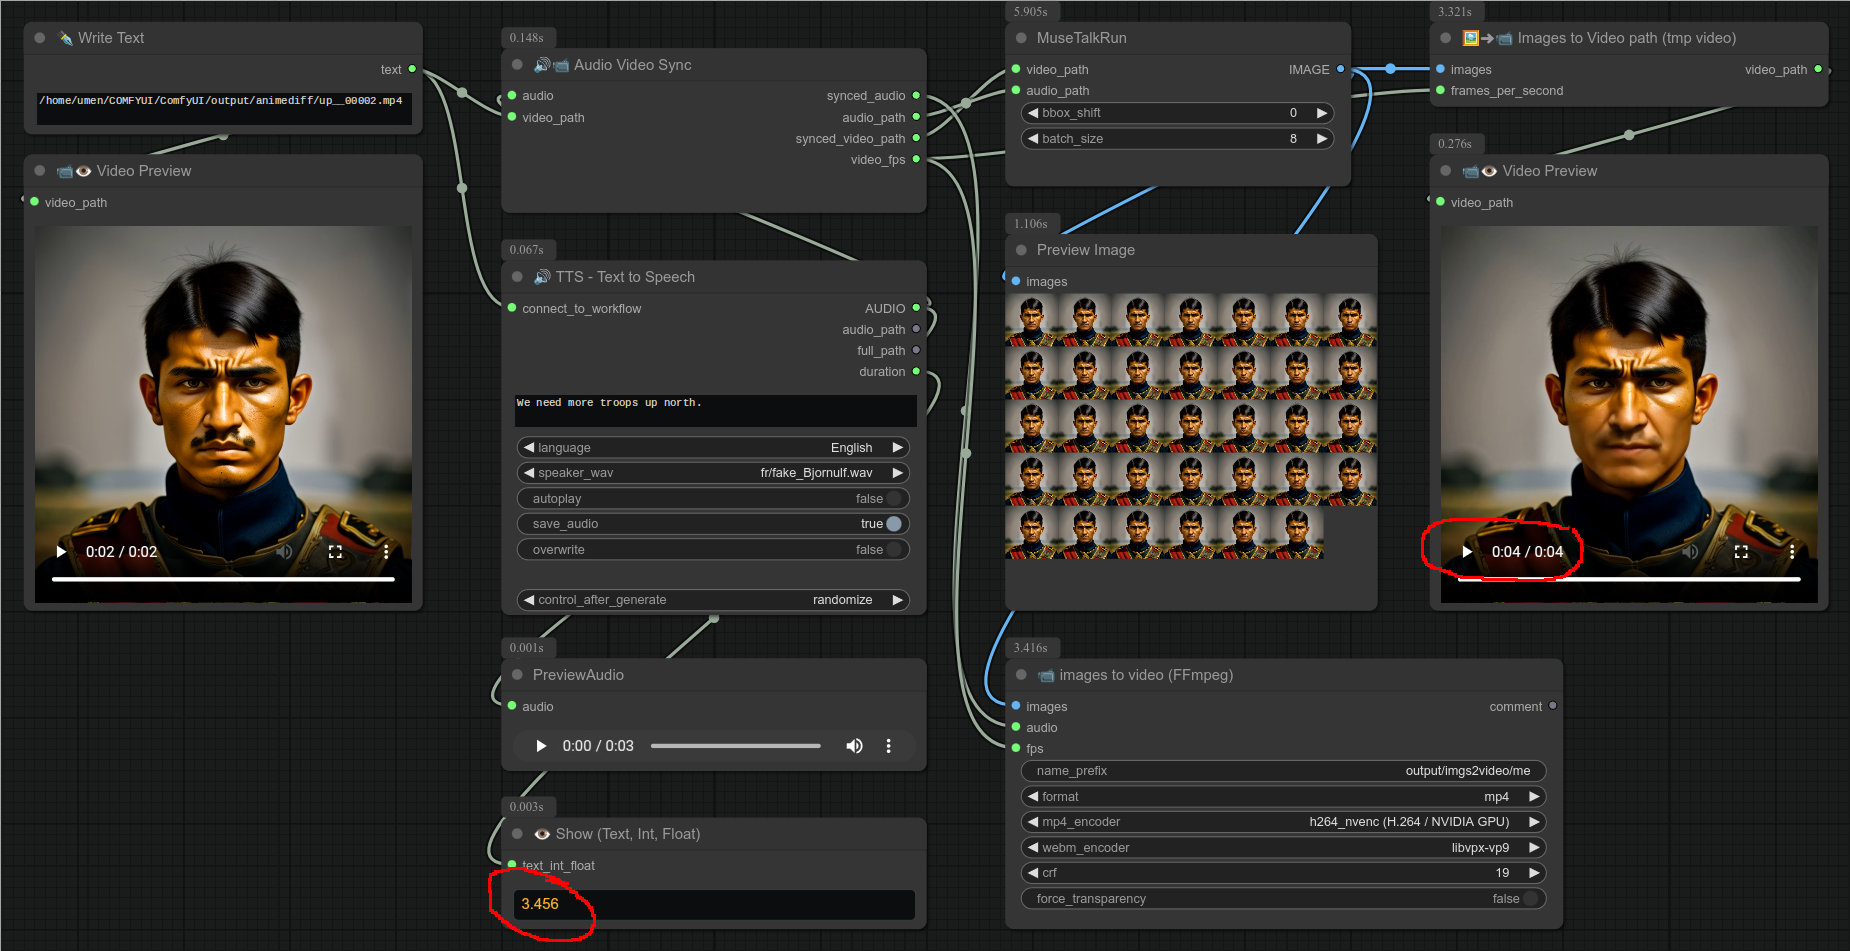
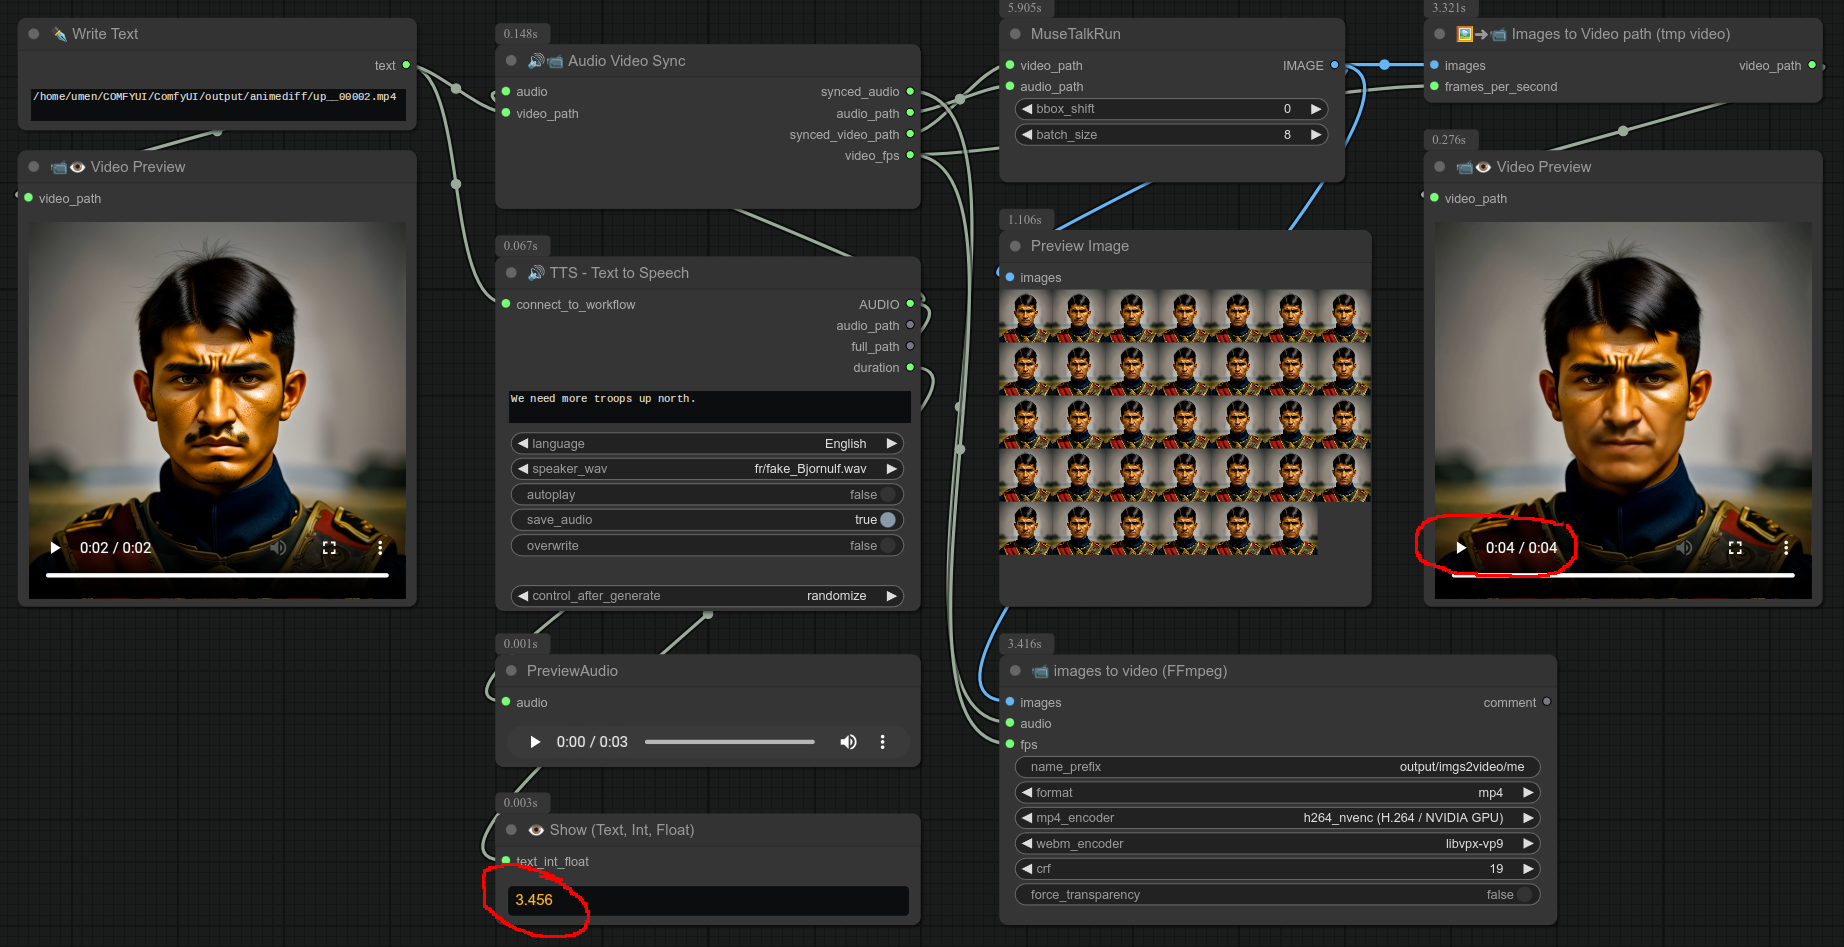
0.47

diff --git a/web/js/loop_model_selector.js b/web/js/loop_model_selector.js
@@ -1,0 +1,98 @@
+import { app } from "../../../scripts/app.js";
+
+app.registerExtension({
+    name: "Bjornulf.LoopModelSelector",
+    async nodeCreated(node) {
+        if (node.comfyClass === "Bjornulf_LoopModelSelector") {
+            const updateModelInputs = () => {
+                const numModelsWidget = node.widgets.find(w => w.name === "number_of_models");
+                if (!numModelsWidget) return;
+
+                const numModels = numModelsWidget.value;
+                const checkpointsList = node.widgets.find(w => w.name === "model_1").options.values;
+                
+                // Remove excess model widgets
+                node.widgets = node.widgets.filter(w => !w.name.startsWith("model_") || parseInt(w.name.split("_")[1]) <= numModels);
+                
+                // Add new model widgets if needed
+                for (let i = 1; i <= numModels; i++) {
+                    const widgetName = `model_${i}`;
+                    if (!node.widgets.find(w => w.name === widgetName)) {
+                        const defaultIndex = Math.min(i - 1, checkpointsList.length - 1);
+                        node.addWidget("combo", widgetName, checkpointsList[defaultIndex], () => {}, { 
+                            values: checkpointsList
+                        });
+                    }
+                }
+                
+                // Reorder widgets
+                node.widgets.sort((a, b) => {
+                    if (a.name === "number_of_models") return -1;
+                    if (b.name === "number_of_models") return 1;
+                    if (a.name === "seed") return 1;
+                    if (b.name === "seed") return -1;
+                    if (a.name.startsWith("model_") && b.name.startsWith("model_")) {
+                        return parseInt(a.name.split("_")[1]) - parseInt(b.name.split("_")[1]);
+                    }
+                    return a.name.localeCompare(b.name);
+                });
+                
+                node.setSize(node.computeSize());
+            };
+
+            // Set up number_of_models widget
+            const numModelsWidget = node.widgets.find(w => w.name === "number_of_models");
+            if (numModelsWidget) {
+                numModelsWidget.callback = () => {
+                    updateModelInputs();
+                    app.graph.setDirtyCanvas(true);
+                };
+            }
+
+            // Set seed widget to integer input
+            const seedWidget = node.widgets.find((w) => w.name === "seed");
+            if (seedWidget) {
+                seedWidget.type = "HIDDEN"; // Hide seed widget after restoring saved state
+            }
+
+            // Handle deserialization
+            const originalOnConfigure = node.onConfigure;
+            node.onConfigure = function(info) {
+                if (originalOnConfigure) {
+                    originalOnConfigure.call(this, info);
+                }
+                
+                // Restore model widgets based on saved properties
+                const savedProperties = info.properties;
+                if (savedProperties) {
+                    Object.keys(savedProperties).forEach(key => {
+                        if (key.startsWith("model_")) {
+                            const widgetName = key;
+                            const widgetValue = savedProperties[key];
+                            const existingWidget = node.widgets.find(w => w.name === widgetName);
+                            if (existingWidget) {
+                                existingWidget.value = widgetValue;
+                            } else {
+                                node.addWidget("combo", widgetName, widgetValue, () => {}, { 
+                                    values: node.widgets.find(w => w.name === "model_1").options.values
+                                });
+                            }
+                        }
+                    });
+                }
+                
+                // Ensure seed is a valid integer
+                const seedWidget = node.widgets.find(w => w.name === "seed");
+                if (seedWidget && isNaN(parseInt(seedWidget.value))) {
+                    seedWidget.value = 0; // Set a default value if invalid
+                }
+                
+                // Update model inputs after restoring saved state
+                updateModelInputs();
+            };
+
+            // Initial update
+            updateModelInputs();
+        }
+    }
+});

diff --git a/loop_model_selector.py b/loop_model_selector.py
@@ -1,0 +1,67 @@
+import os
+from folder_paths import get_filename_list, get_full_path
+import comfy.sd
+
+class LoopModelSelector:
+    @classmethod
+    def INPUT_TYPES(cls):
+        model_list = get_filename_list("checkpoints")
+        optional_inputs = {}
+        
+        for i in range(1, 11):
+            optional_inputs[f"model_{i}"] = (model_list, {"default": model_list[min(i-1, len(model_list)-1)]})
+
+        return {
+            "required": {
+                "number_of_models": ("INT", {"default": 3, "min": 1, "max": 20, "step": 1}),
+            },
+            "optional": optional_inputs
+        }
+
+    RETURN_TYPES = ("MODEL", "CLIP", "VAE", "STRING", "STRING", "STRING")
+    RETURN_NAMES = ("model", "clip", "vae", "model_path", "model_name", "model_folder")
+    FUNCTION = "select_models"
+    CATEGORY = "Bjornulf"
+    OUTPUT_IS_LIST = (True, True, True, True, True, True)
+
+    def select_models(self, number_of_models, **kwargs):
+        # Collect available models from kwargs
+        available_models = [
+            kwargs[f"model_{i}"] for i in range(1, number_of_models + 1) if f"model_{i}" in kwargs and kwargs[f"model_{i}"]
+        ]
+        
+        # Raise an error if no models are available
+        if not available_models:
+            raise ValueError("No models selected")
+        
+        models = []
+        clips = []
+        vaes = []
+        model_paths = []
+        model_names = []
+        model_folders = []
+        
+        for selected_model in available_models:
+            # Get the model name (without folders or extensions)
+            model_name = os.path.splitext(os.path.basename(selected_model))[0]
+            
+            # Get the full path to the selected model
+            model_path = get_full_path("checkpoints", selected_model)
+            
+            # Get the folder name where the model is located
+            model_folder = os.path.basename(os.path.dirname(model_path))
+            
+            # Load the model using ComfyUI's checkpoint loader
+            loaded_objects = comfy.sd.load_checkpoint_guess_config(model_path)
+            
+            # Unpack only the values we need
+            model, clip, vae = loaded_objects[:3]
+            
+            models.append(model)
+            clips.append(clip)
+            vaes.append(vae)
+            model_paths.append(model_path)
+            model_names.append(model_name)
+            model_folders.append(model_folder)
+        
+        return (models, clips, vaes, model_paths, model_names, model_folders)

diff --git a/__init__.py b/__init__.py
@@ -55,9 +55,11 @@ from .audio_video_sync import AudioVideoSync
 from .video_path_to_images import VideoToImagesList
 from .images_to_video_path import ImagesListToVideo
 from .video_preview import VideoPreview
+from .loop_model_selector import LoopModelSelector
 
 NODE_CLASS_MAPPINGS = {
     "Bjornulf_ollamaLoader": ollamaLoader,
+    "Bjornulf_LoopModelSelector": LoopModelSelector,
     "Bjornulf_VideoPreview": VideoPreview,
     "Bjornulf_ImagesListToVideo": ImagesListToVideo,
     "Bjornulf_VideoToImagesList": VideoToImagesList,
@@ -114,6 +116,7 @@ NODE_CLASS_MAPPINGS = {
 
 NODE_DISPLAY_NAME_MAPPINGS = {
     "Bjornulf_WriteText": "✒ Write Text",
+    "Bjornulf_LoopModelSelector": "♻ Loop Load checkpoint (Model Selector)",
     "Bjornulf_VideoPreview": "📹👁 Video Preview",
     "Bjornulf_ImagesListToVideo": "🖼➜📹 Images to Video path (tmp video)",
     "Bjornulf_VideoToImagesList": "📹➜🖼 Video Path to Images",

diff --git a/README.md b/README.md
@@ -1,6 +1,6 @@
 # 🔗 Comfyui : Bjornulf_custom_nodes v0.46 🔗
 
-A list of 52 custom nodes for Comfyui : Display, manipulate, and edit text, images, videos, and more.  
+A list of 53 custom nodes for Comfyui : Display, manipulate, and edit text, images, videos, and more.  
 You can manage looping operations, generate randomized content, trigger logical conditions, pause and manually control your workflows and even work with external AI tools, like Ollama or Text To Speech.  
 
 # Coffee : ☕☕☕☕☕ 5/5
@@ -42,6 +42,7 @@ You can manage looping operations, generate randomized content, trigger logical 
 `38.` [♻🖼 Loop (Images)](#38----loop-images)  
 `39.` [♻ Loop (✒🗔 Advanced Write Text + 🅰 variables)](#39----loop--advanced-write-text)  
 `42.` [♻ Loop (Model+Clip+Vae) - aka Checkpoint / Model](#42----loop-modelclipvae---aka-checkpoint--model)  
+`53.` [♻ Loop Load checkpoint (Model Selector)](#53)  
 
 ## 🎲 Randomization 🎲
 `3.` [✒🗔 Advanced Write Text (+ 🎲 random selection and 🅰 variables)](#3----advanced-write-text---random-selection-and-🅰%EF%B8%8F-variables)  
@@ -234,6 +235,7 @@ cd /where/you/installed/ComfyUI && python main.py
 - **v0.44**: Allow ollama to have a cusom url in the file `ollama_ip.txt` in the comfyui custom nodes folder. Minor changes, add details/updates to README.
 - **v0.45**: Add a new node : Text scrambler (Character), change text randomly using the file `scrambler/scrambler_character.json` in the comfyui custom nodes folder.
 - **v0.46**: ❗ A lot of changes to Video nodes. Save to video is now using FLOAT for fps, not INT. (A lot of other custom nodes do that as well...) Add node to preview video, add node to convert a video path to a list of images. add node to convert a list of images to a temporary video + video_path. add node to synchronize duration of audio with video. (useful for MuseTalk) change TTS node with many new outputs ("audio_path", "full_path", "duration") to reuse with other nodes like MuseTalk, also TTS rename input to "connect_to_workflow", to avoid mistakes sending text to it.
+- **v0.47**: New node : Loop Load checkpoint (Model Selector).
 
 # 📝 Nodes descriptions
 
@@ -643,7 +645,7 @@ Details :
 - It will take more VRAM, but it will be faster to switch between checkpoints.  
 - It can't give you the currently loaded checkpoint name's.  
 
-Check node number 41 before deciding which one to use.
+Check node number 41 before deciding which one to use.  
 
 ### 41 - 🎲 Random Load checkpoint (Model Selector)
 
@@ -658,7 +660,8 @@ I always store my checkpoints in a folder with the type of the model like `SD1.5
 Details :  
 - Note that compared to node 40, you can't have separate configuration depending of the selected checkpoint. (For example `CLIP Set Last Layer` node set at -2 for a specific model, or a separate vae or clip.) Aka : All models are going to share the exact same workflow.  
 
-Check node number 40 before deciding which one to use.
+Check node number 40 before deciding which one to use.  
+Node 53 is the loop version of this node.  
 
 ### 42 - ♻ Loop (Model+Clip+Vae) - aka Checkpoint / Model
 
@@ -818,3 +821,14 @@ Here is an example without `Audio Video Sync` node (The duration of the video is
 Here is an example with `Audio Video Sync` node, notice that it is also convenient to recover the frames per second of the video, and send that to other nodes. :
 
 ![audio sync video](screenshots/audio_sync_video_with.png)
+
+### 53 - ♻ Loop Load checkpoint (Model Selector)
+
+![loop model selector](screenshots/loop_model_selector.png)
+
+**Description:**  
+This is the loop version of node 41. (check there for similar details)  
+It will loop over all the selected checkpoints.  
+
+❗ The big difference with 41 is that checkpoints are preloaded in memory. You can run them all faster all at once.  
+It is a good way to test multiple checkpoints quickly.  
